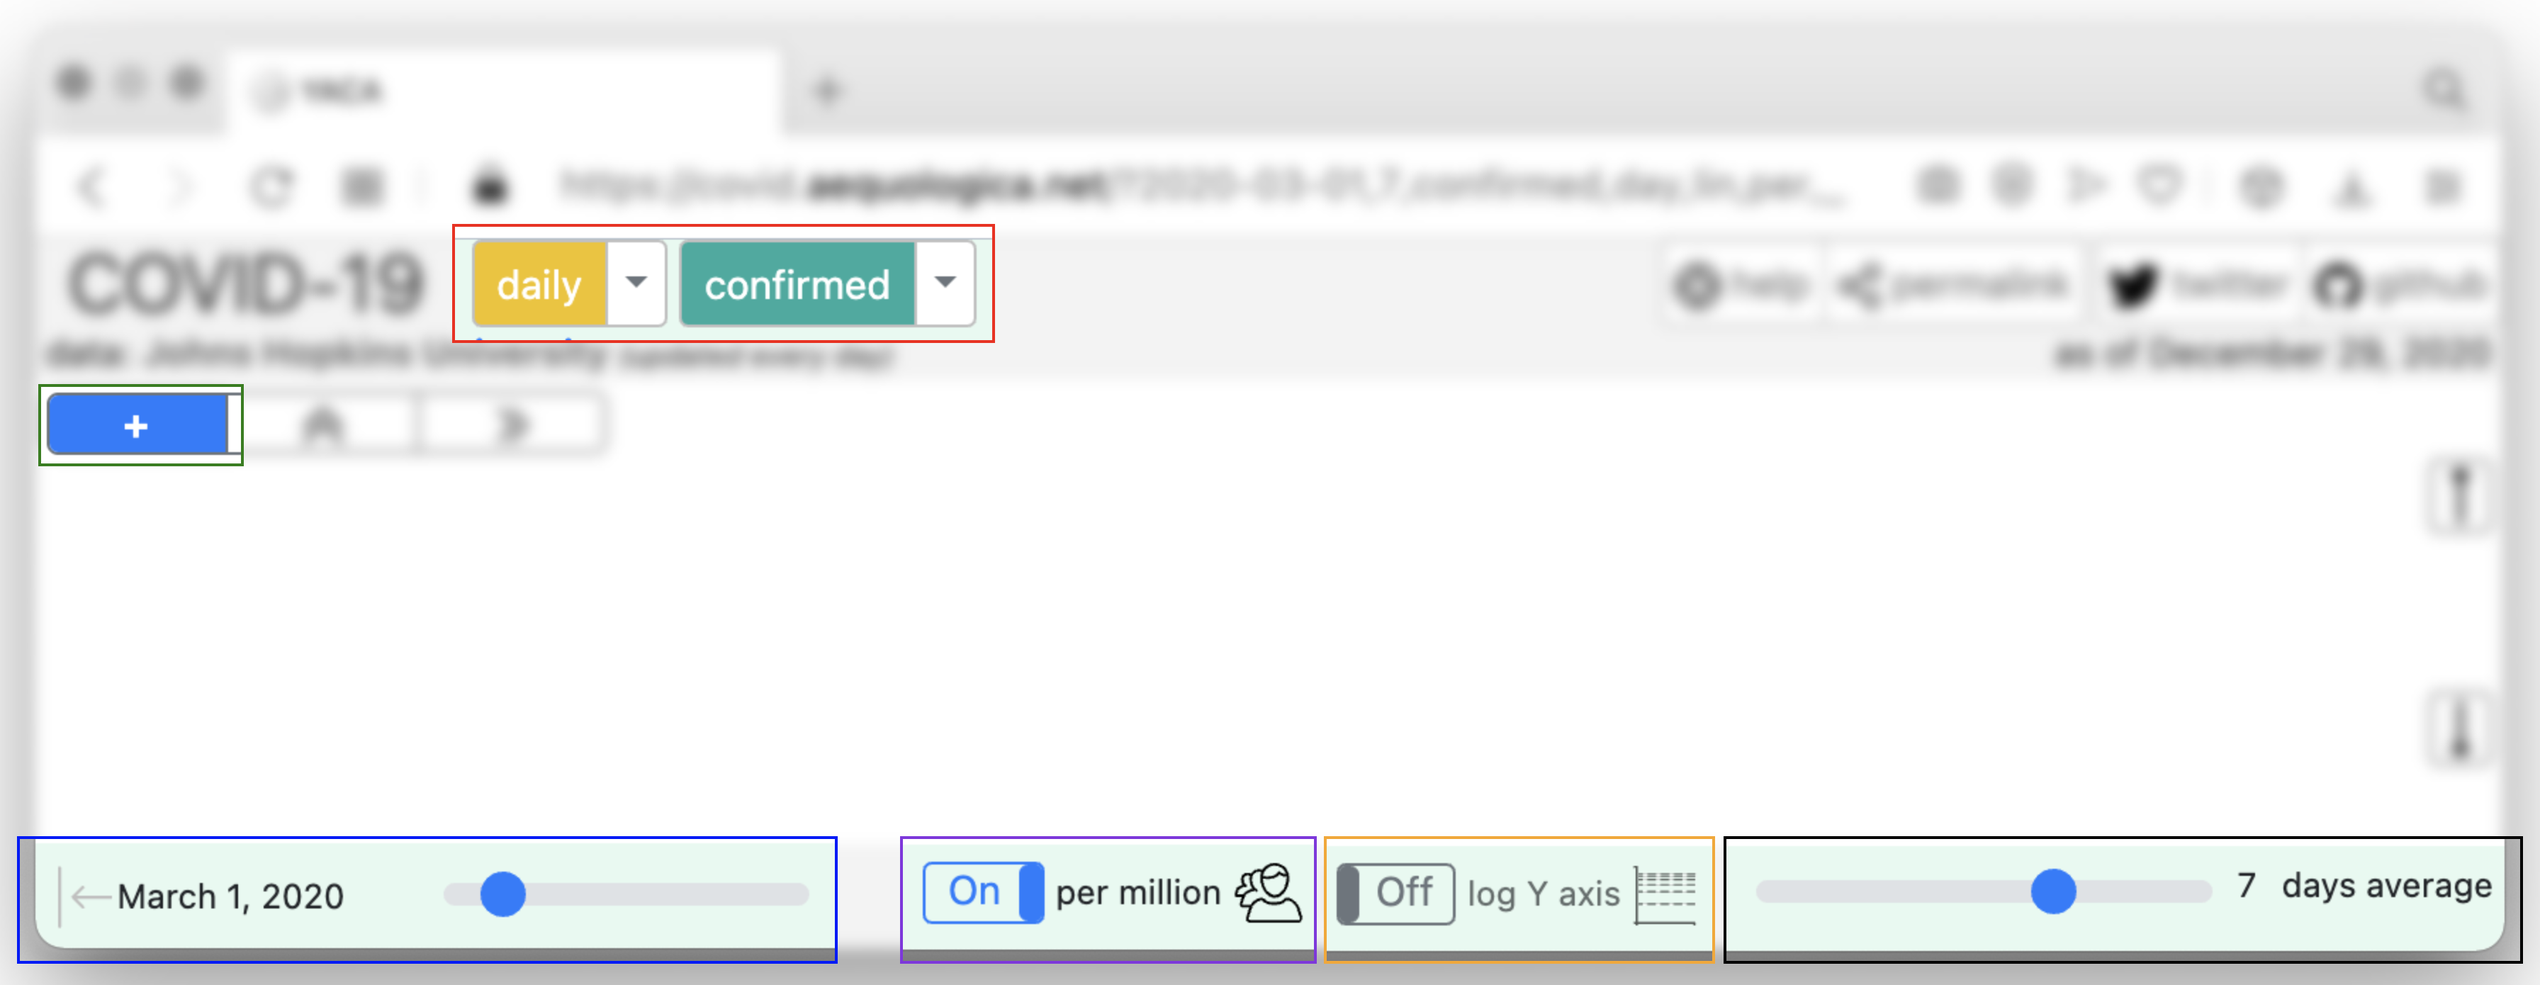
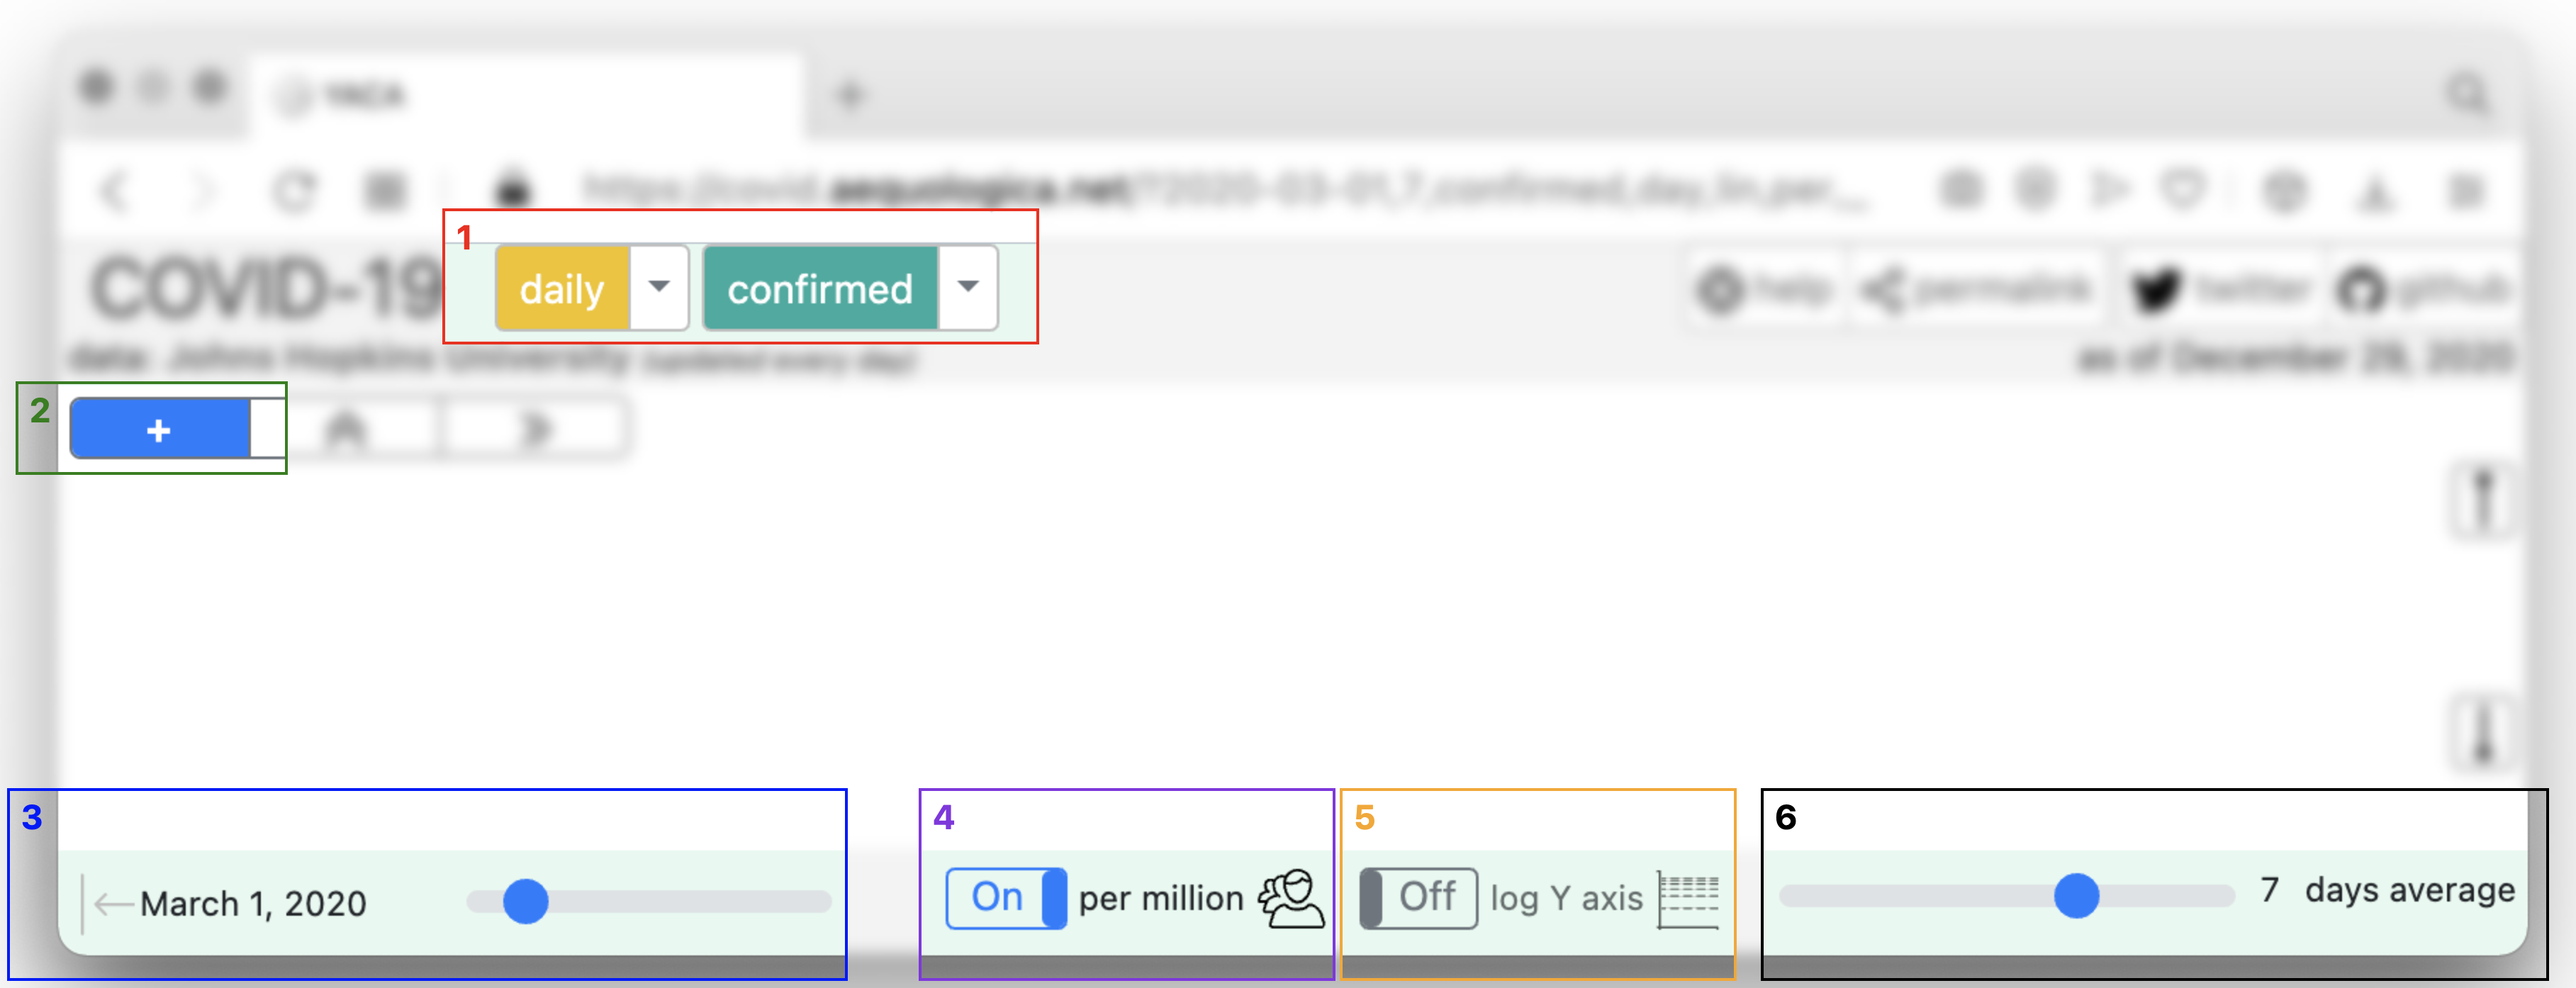
tut

diff --git a/tutorial.html b/tutorial.html
@@ -90,58 +90,94 @@
                     transparent 100%);
         }
 
+        .loupe:before {
+            padding: 0 .5rem;
+            font-size: x-large;
+            font-weight: 700;
+        }
+
+        #loupe1:before {
+            content: "1";
+            color: red;
+        }
+
         #loupe1 {
             border-color: red;
-            left: 408px;
-            top: 215px;
-            background-position: -408px -215px;
-            width: 383px;
-            height: 84px;
+            left: 385px;
+            top: 201px;
+            background-position: -385px -201px;
+            width: 421px;
+            height: 96px;
+        }
+
+        #loupe2:before {
+            content: "2";
+            color: green;
         }
 
         #loupe2 {
             border-color: green;
-            left: 116px;
-            top: 328px;
-            background-position: -116px -328px;
-            width: 145px;
-            height: 58px;
+            left: 84px;
+            top: 323px;
+            background-position: -84px -323px;
+            width: 192px;
+            height: 66px;
+        }
+
+        #loupe3:before {
+            content: "3";
+            color: blue;
         }
 
         #loupe3 {
             border-color: blue;
-            left: 101px;
-            top: 647px;
-            background-position: -101px -649px;
-            width: 579px;
-            height: 90px;
+            left: 78px;
+            top: 610px;
+            background-position: -78px -610px;
+            width: 593px;
+            height: 136px;
+        }
+
+        #loupe4:before {
+            content: "4";
+            color: blueviolet;
         }
 
         #loupe4 {
             border-color: blueviolet;
-            left: 724px;
-            top: 647px;
-            background-position: -724px -648px;
+            left: 721px;
+            top: 610px;
+            background-position: -721px -610px;
             width: 294px;
-            height: 90px;
+            height: 136px;
+        }
+
+        #loupe5:before {
+            content: "5";
+            color: orange;
         }
 
         #loupe5 {
             border-color: orange;
-            left: 1023px;
-            top: 647px;
-            background-position: -1023px -647px;
-            width: 276px;
-            height: 90px;
+            left: 1018px;
+            top: 610px;
+            background-position: -1018px -610px;
+            width: 280px;
+            height: 136px;
+        }
+
+        #loupe6:before {
+            content: "6";
+            color: black;
         }
 
         #loupe6 {
             border-color: black;
-            left: 1305px;
-            top: 647px;
-            background-position: -1305px -647px;
-            width: 564px;
-            height: 90px;
+            left: 1315px;
+            top: 610px;
+            background-position: -1315px -610px;
+            width: 556px;
+            height: 136px;
         }
     </style>
 </head>

diff --git a/README.md b/README.md
@@ -28,7 +28,14 @@ Try it here: [https://covid.aequologica.net/?2020-03-01,7,DE,DK,EE,FI,LT,LV,NO,P
 
 You may find cumbersome all this typing (read: you are not a geek). But wait, you can configure all these options with the (hopefully intuitive) user interface of the application, and boom! one click on the "permalink" button at the top right of the screen will generate the well-formed link with all information and have it copied to the clipboard. Now, you may go back to Whatsapp, paste the link, and resume the conversation.
 
-![Tutorial](./img/png/screenshot-tutorial.png "tutorial") -->
+1. select **daily** or total figures, and **confirmed** or deaths measures
+2. add and remove countries from list
+3. set start date
+4. select **per million inhabitants** or absolute figures,
+5. set **linear** or logarithmic Y axis,
+6. set the size of the average (only for daily figures)
+
+![Tutorial](./img/png/screenshot-tutorial.png "tutorial")
 
 <!-- <iframe id="iFrame"
     title="help"
